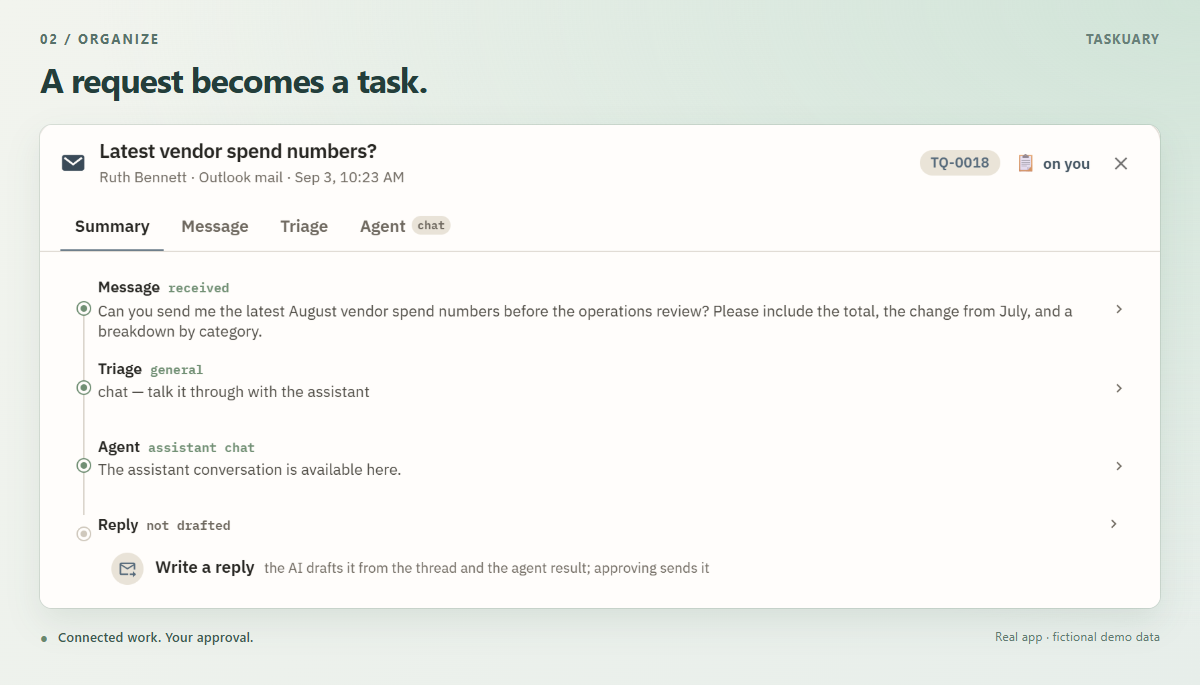
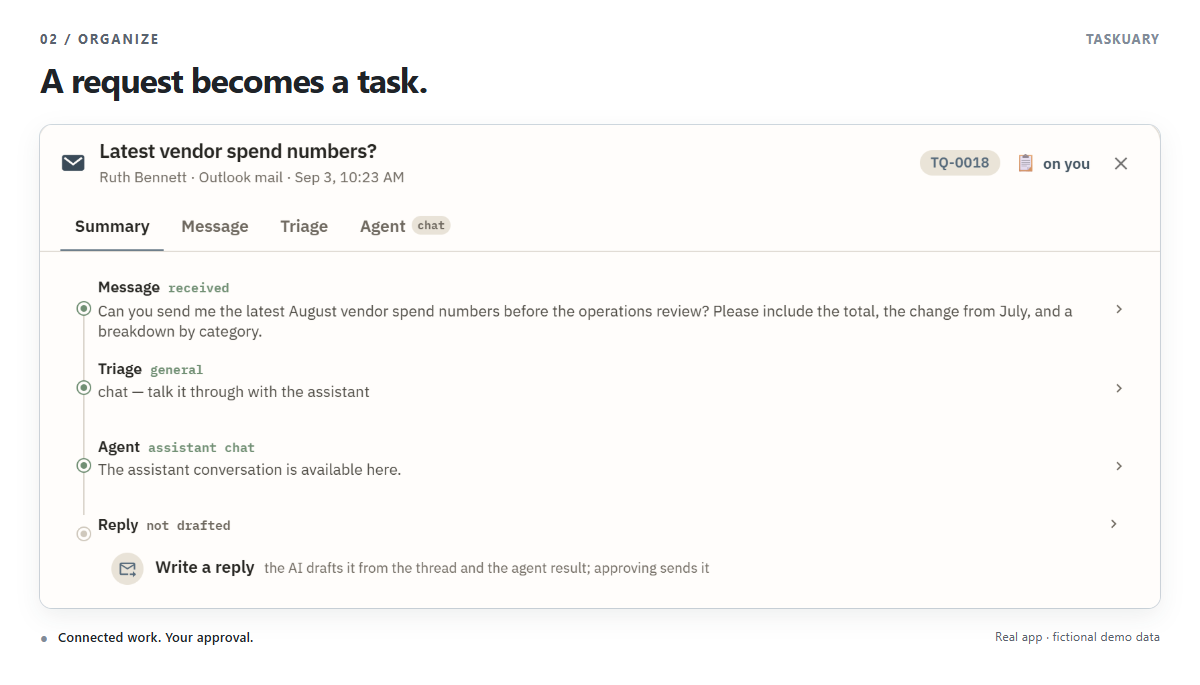
The README hero moves smoothly, and every picture shows whole cards on a plain white page
- The hero's camera lurched: frames were taken whenever a screenshot finished, played
  back at a fixed rate, and ffmpeg's concat snapped those rates to a 25 fps grid besides
  (50 ms frames came out 40/80/40/80). The capture now owns the scene's clock -
  performance.now and requestAnimationFrame advance one frame per screenshot - so every
  flight frame is exactly 50 ms apart. Smooth flights cost 20 MB as a GIF, so the hero is
  now docs/hero.webp (5.8 MB); docs/hero.gif is left as it was.
- The frame around each picture was a green-tinted gradient. It is plain white with
  grey type, so the only colour is the app's own.
- Hand-set clips cut cards off at the edges (the CLI and Hub cards, the agent's result,
  the reply, the opening card). capture-readme's card() now crops to the card itself: the
  smallest box holding given words, the window grown until none of it scrolls away, the
  chat's other cards hidden. The key-feature pictures are re-shot from the current app
  (Connections, Hub and Docs open inside the chat now; the Board's handoff wall had lost
  its sample notes).

Changed region(s): [[0.0308, 0.0, 1.0, 0.9504], [0.0617, 0.9197, 0.2158, 0.9504]]

diff --git a/README.md b/README.md
@@ -17,7 +17,7 @@
 
 Compared with hosted assistants like Fyxer, Taskuary is free and open source, runs on your machine, and hands the work to agents you already use.
 
-![The Assistant's Game view: an office where every task, message and agent is a figure, opening on the whole floor and zooming into each room - the Agent Floor, the Meeting Room where people wait on you, the Gym, the Coffee Room, the Memory Archive, and the Assistant Core.](https://raw.githubusercontent.com/ldbumble/taskuary/master/docs/hero.gif?v=game)
+![The Assistant's Game view: an office where every task, message and agent is a figure, opening on the whole floor and zooming into each room - the Agent Floor, the Meeting Room where people wait on you, the Gym, the Coffee Room, the Memory Archive, and the Assistant Core.](https://raw.githubusercontent.com/ldbumble/taskuary/master/docs/hero.webp?v=smooth)
 
 Taskuary is early—currently **v0.3.7.15**—so breaking changes are still possible before 1.0.
 
@@ -43,7 +43,7 @@ Mail, chats, issue trackers, alerts, and reports arrive on one rail, sorted by w
 one card: what changed since last night, what was learned, the morning digest, your meetings, and
 what waits in each section - so you never open each system in turn.
 
-![The work rail sorting today's items into Urgent, On you, Agents working, Reports, Advisor ideas, and FYI, beside the opening card: agents that finished and a report that ran since last night, the memory and morning digest lines, today's meetings, and what waits in each section.](https://raw.githubusercontent.com/ldbumble/taskuary/master/docs/readme/01-timeline-sources-and-times.png?v=opening-card)
+![The work rail sorting today's items into Urgent, On you, Agents working, Reports, Advisor ideas, and FYI, beside the opening card: agents that finished and a report that ran since last night, the memory and morning digest lines, today's meetings, and what waits in each section.](https://raw.githubusercontent.com/ldbumble/taskuary/master/docs/readme/01-timeline-sources-and-times.png?v=cards)
 
 ### 2. Let the Assistant walk you through it
 
@@ -52,28 +52,28 @@ same task card you would open yourself, with the next actions under it: **Next**
 **Send to agent**, **Mark done**. The buttons always do the same thing; the chat line is for everything else,
 and the Assistant already has the message, the thread, and your past decisions to answer from.
 
-![The Assistant bringing Ruth's request into the chat as task TQ-0018 - what needs doing, its agent and close-out steps - with Next, Write reply, Send to agent, and Mark done under it.](https://raw.githubusercontent.com/ldbumble/taskuary/master/docs/readme/05-assistant.png?v=opening-card)
+![The Assistant bringing Ruth's request into the chat as task TQ-0018 - what needs doing, its agent and close-out steps - with Next, Write reply, Send to agent, and Mark done under it.](https://raw.githubusercontent.com/ldbumble/taskuary/master/docs/readme/05-assistant.png?v=cards)
 
 ### 3. Every request becomes a task with its whole story
 
 Open any item to see how it got here: the message, what triage decided and why, which agent
 has it, and where the reply stands.
 
-![Ruth's request on its task: the message, the triage decision, the agent, and the reply still to write.](https://raw.githubusercontent.com/ldbumble/taskuary/master/docs/readme/02-task.png?v=opening-card)
+![Ruth's request on its task: the message, the triage decision, the agent, and the reply still to write.](https://raw.githubusercontent.com/ldbumble/taskuary/master/docs/readme/02-task.png?v=cards)
 
 ### 4. The agent works inside the chat
 
 **Send to agent** and it works in the same card. Here the analyst prepares the numbers, checks
 that the categories add up, names its source, and drafts the reply. Nothing is sent.
 
-![The analyst's finished vendor spend analysis inside the chat, with category totals, the change from July, and its source.](https://raw.githubusercontent.com/ldbumble/taskuary/master/docs/readme/03-agent.png?v=opening-card)
+![The analyst's finished vendor spend analysis inside the chat, with category totals, the change from July, and its source.](https://raw.githubusercontent.com/ldbumble/taskuary/master/docs/readme/03-agent.png?v=cards)
 
 ### 5. The last word is yours
 
 The prepared reply waits on the task, beside the request that started it. Read it, edit it,
 and choose **Approve & send** when it is ready.
 
-![The drafted reply to Ruth waiting on its task, with Approve & send, Mark done, and Regenerate with AI.](https://raw.githubusercontent.com/ldbumble/taskuary/master/docs/readme/04-review.png?v=opening-card)
+![The drafted reply to Ruth waiting on its task, with Approve & send, Mark done, and Regenerate with AI.](https://raw.githubusercontent.com/ldbumble/taskuary/master/docs/readme/04-review.png?v=cards)
 
 ### 6. Start your day before it gets busy
 
@@ -81,7 +81,7 @@ Each morning the Assistant opens on what changed since last night, what it learn
 and what waits in each section - and the morning digest unfolds in place, so it is never stale by the
 time you reach it. Ruth's request has a clear deadline: the 11:30 operations review.
 
-![An animated close-up of the morning: the opening card, then its morning digest unfolding - who wants what, what is in flight, and today's meetings.](https://raw.githubusercontent.com/ldbumble/taskuary/master/docs/readme/06-morning.gif?v=opening-card)
+![An animated close-up of the morning: the opening card, then its morning digest unfolding - who wants what, what is in flight, and today's meetings.](https://raw.githubusercontent.com/ldbumble/taskuary/master/docs/readme/06-morning.gif?v=cards)
 
 ## Key features
 
@@ -95,21 +95,21 @@ For Qwen Code, see the [setup and compatibility guide](docs/qwen-code.md).
 Use DeepSeek, GLM, or MiniMax through OpenCode, or connect Moonshot's Kimi Code:
 [setup steps and supported roles](docs/chinese-coding-clis.md).
 
-![AI CLI connections for Claude, Qwen, OpenCode with DeepSeek, and Kimi Code.](https://raw.githubusercontent.com/ldbumble/taskuary/master/docs/readme/07-coding-clis-chinese.png)
+![AI CLI connections for Claude, Qwen, OpenCode with DeepSeek, and Kimi Code.](https://raw.githubusercontent.com/ldbumble/taskuary/master/docs/readme/07-coding-clis-chinese.png?v=cards)
 
 ### A shared Hub for what agents learn
 
 Keep discoveries, decisions, and useful warnings by topic. Agents can find what earlier work
 uncovered, discuss it, and correct it instead of starting from scratch.
 
-![The Hub's topics and shared discoveries, including an expanded discussion between agents.](https://raw.githubusercontent.com/ldbumble/taskuary/master/docs/readme/08-hub.png)
+![A discovery in the Hub, with the discussion two agents had under it.](https://raw.githubusercontent.com/ldbumble/taskuary/master/docs/readme/08-hub.png?v=cards)
 
 ### Agents leave notes for each other
 
 The Board's **Live handoffs** show what agents are working on, what is blocked, and what is ready.
 An agent leaves a note; the next one reads it before picking up the work.
 
-![Live handoff notes on the agent wall, showing progress, shared context, and who has read each note.](https://raw.githubusercontent.com/ldbumble/taskuary/master/docs/readme/09-handoffs.png)
+![Live handoff notes on the agent wall, showing progress, shared context, and who has read each note.](https://raw.githubusercontent.com/ldbumble/taskuary/master/docs/readme/09-handoffs.png?v=cards)
 
 ### Memory that learns how you work
 
@@ -121,7 +121,7 @@ it to lead with the total next time.
 Open **Docs → LEARNED.md** to read, edit, or delete those lessons. Your written instructions
 in `SOUL.md` take precedence.
 
-![LEARNED.md open in the document editor, with evidence-backed preferences, hypotheses still being tested, and proposed rules awaiting the owner.](https://raw.githubusercontent.com/ldbumble/taskuary/master/docs/readme/11-learned-memory.png)
+![LEARNED.md open in the document editor, with evidence-backed preferences, hypotheses still being tested, and proposed rules awaiting the owner.](https://raw.githubusercontent.com/ldbumble/taskuary/master/docs/readme/11-learned-memory.png?v=cards)
 
 <details>
 <summary>Technical details: how LEARNED.md becomes memory</summary>

diff --git a/README.zh-CN.md b/README.zh-CN.md
@@ -16,7 +16,7 @@
 
 与 Fyxer 等托管助手相比，Taskuary 免费开源，在你的电脑上运行，并把工作交给你已经在用的智能体。
 
-![助手的游戏视图：每个任务、消息和智能体都是办公室里的一个人物，先展示整层办公室，再依次放大到各个房间。](https://raw.githubusercontent.com/ldbumble/taskuary/master/docs/hero.gif?v=game)
+![助手的游戏视图：每个任务、消息和智能体都是办公室里的一个人物，先展示整层办公室，再依次放大到各个房间。](https://raw.githubusercontent.com/ldbumble/taskuary/master/docs/hero.webp?v=smooth)
 
 Taskuary 仍处于早期阶段，目前为 **v0.3.7.15**，1.0 之前可能出现不兼容变更。
 应用界面和演示截图目前以英文为主；下文保留英文按钮名称，方便对照操作。
@@ -46,7 +46,7 @@ Qwen Code 使用哪个云端或本地模型，由你配置。见[使用 Qwen Cod
 **Urgent**、**On you**、**For later**、Advisor 的建议，以及 **FYI**。旁边是一天的开场卡片：昨晚以来的变化、
 学到的东西、早间摘要、今天的会议，以及每个分组里在等你的事，不用逐个打开各个系统。
 
-![工作栏把今天的事项分组，旁边是开场卡片：昨晚以来完成的代理和运行的报表、记忆与早间摘要、今天的会议，以及每个分组里在等你的事。](https://raw.githubusercontent.com/ldbumble/taskuary/master/docs/readme/01-timeline-sources-and-times.png?v=opening-card)
+![工作栏把今天的事项分组，旁边是开场卡片：昨晚以来完成的代理和运行的报表、记忆与早间摘要、今天的会议，以及每个分组里在等你的事。](https://raw.githubusercontent.com/ldbumble/taskuary/master/docs/readme/01-timeline-sources-and-times.png?v=cards)
 
 ### 2. 让助手带你逐项处理
 
@@ -54,33 +54,33 @@ Qwen Code 使用哪个云端或本地模型，由你配置。见[使用 Qwen Cod
 下面是接下来的操作：**Next**、**Write reply**、**Send to agent**、**Mark done**。按钮每次都做同样的事；
 其他需求直接在对话框里说，助手已经掌握这条消息、整个线程以及你过去的决定。
 
-![助手把 Ruth 的请求作为任务 TQ-0018 带入对话，显示要做的事、智能体和收尾步骤，下面是 Next、Write reply、Send to agent 和 Mark done。](https://raw.githubusercontent.com/ldbumble/taskuary/master/docs/readme/05-assistant.png?v=opening-card)
+![助手把 Ruth 的请求作为任务 TQ-0018 带入对话，显示要做的事、智能体和收尾步骤，下面是 Next、Write reply、Send to agent 和 Mark done。](https://raw.githubusercontent.com/ldbumble/taskuary/master/docs/readme/05-assistant.png?v=cards)
 
 ### 3. 每个请求都成为带有完整经过的任务
 
 打开任何事项，都能看到它的来龙去脉：原始消息、分诊的结论和原因、由哪个智能体处理，以及回复进行到哪一步。
 
-![Ruth 的请求对应的任务：原始消息、分诊结论、智能体，以及尚未撰写的回复。](https://raw.githubusercontent.com/ldbumble/taskuary/master/docs/readme/02-task.png?v=opening-card)
+![Ruth 的请求对应的任务：原始消息、分诊结论、智能体，以及尚未撰写的回复。](https://raw.githubusercontent.com/ldbumble/taskuary/master/docs/readme/02-task.png?v=cards)
 
 ### 4. 智能体在对话里工作
 
 点击 **Send to agent**，智能体就在同一张卡片里工作。这里的分析智能体整理支出数据、核对分类合计、
 注明数据来源，并准备回复草稿。任何内容都不会自动发出。
 
-![分析智能体在对话中完成的供应商支出分析，包括分类合计、与七月的变化和数据来源。](https://raw.githubusercontent.com/ldbumble/taskuary/master/docs/readme/03-agent.png?v=opening-card)
+![分析智能体在对话中完成的供应商支出分析，包括分类合计、与七月的变化和数据来源。](https://raw.githubusercontent.com/ldbumble/taskuary/master/docs/readme/03-agent.png?v=cards)
 
 ### 5. 最后由你决定
 
 准备好的回复放在任务上，旁边就是最初的请求。阅读、修改，确认无误后点击 **Approve & send**。
 
-![给 Ruth 的回复草稿在任务上等待审核，并提供 Approve & send、Mark done 和 Regenerate with AI。](https://raw.githubusercontent.com/ldbumble/taskuary/master/docs/readme/04-review.png?v=opening-card)
+![给 Ruth 的回复草稿在任务上等待审核，并提供 Approve & send、Mark done 和 Regenerate with AI。](https://raw.githubusercontent.com/ldbumble/taskuary/master/docs/readme/04-review.png?v=cards)
 
 ### 6. 在忙起来之前开始一天
 
 每天早上，助手先说明昨晚以来的变化、学到的东西、今天的会议，以及每个分组里在等你的事；早间摘要直接在卡片里展开，
 看到时不会过时。Ruth 的请求有明确的期限：11:30 的运营会议。
 
-![早间画面的动画特写：开场卡片，以及在卡片里展开的早间摘要。](https://raw.githubusercontent.com/ldbumble/taskuary/master/docs/readme/06-morning.gif?v=opening-card)
+![早间画面的动画特写：开场卡片，以及在卡片里展开的早间摘要。](https://raw.githubusercontent.com/ldbumble/taskuary/master/docs/readme/06-morning.gif?v=cards)
 
 ## 核心功能
 
@@ -95,21 +95,21 @@ Qwen Code 使用哪个云端或本地模型，由你配置。见[使用 Qwen Cod
 这两个预设用于执行任务；消息分拣和只读报告请选择 Qwen Code、Ollama 或 API 服务。
 详见[安装步骤和验证范围（英文）](docs/chinese-coding-clis.md)。
 
-![Claude、Qwen、OpenCode（支持 DeepSeek）和 Kimi Code 的连接卡片。](https://raw.githubusercontent.com/ldbumble/taskuary/master/docs/readme/07-coding-clis-chinese.png)
+![Claude、Qwen、OpenCode（支持 DeepSeek）和 Kimi Code 的连接卡片。](https://raw.githubusercontent.com/ldbumble/taskuary/master/docs/readme/07-coding-clis-chinese.png?v=cards)
 
 ### 用 Hub 保留共享知识
 
 按主题保存发现、决定和有用的提醒。智能体可以查阅前面的工作、补充讨论，
 也可以根据新证据纠正结论，减少重复摸索。
 
-![Hub 中按主题组织的共享发现，以及智能体之间的讨论。](https://raw.githubusercontent.com/ldbumble/taskuary/master/docs/readme/08-hub.png)
+![Hub 中按主题组织的共享发现，以及智能体之间的讨论。](https://raw.githubusercontent.com/ldbumble/taskuary/master/docs/readme/08-hub.png?v=cards)
 
 ### 智能体之间可以交接留言
 
 Board 的 **Live handoffs** 展示当前进展、阻碍和待接手事项。
 一个智能体留下说明，下一个接手时就能读到上下文；已读标记显示谁看过这条留言。
 
-![智能体的交接留言，包括进展、共享上下文和已读标记。](https://raw.githubusercontent.com/ldbumble/taskuary/master/docs/readme/09-handoffs.png)
+![智能体的交接留言，包括进展、共享上下文和已读标记。](https://raw.githubusercontent.com/ldbumble/taskuary/master/docs/readme/09-handoffs.png?v=cards)
 
 ### 从你的决定中学习
 
@@ -120,7 +120,7 @@ Board 的 **Live handoffs** 展示当前进展、阻碍和待接手事项。
 打开 **Docs → LEARNED.md**，可以阅读、修改或删除这些记忆。
 你在 `SOUL.md` 中写下的指令始终优先。
 
-![LEARNED.md 编辑器中可查看和修改的偏好、证据、待验证假设和待批准规则。](https://raw.githubusercontent.com/ldbumble/taskuary/master/docs/readme/11-learned-memory.png)
+![LEARNED.md 编辑器中可查看和修改的偏好、证据、待验证假设和待批准规则。](https://raw.githubusercontent.com/ldbumble/taskuary/master/docs/readme/11-learned-memory.png?v=cards)
 
 <details>
 <summary>技术细节：LEARNED.md 如何形成记忆</summary>

diff --git a/docs/readme/README.md b/docs/readme/README.md
@@ -1,8 +1,10 @@
 # README walkthrough images
 
 The README and product guide share these images. The hero is kept separately at
-`docs/hero.gif`: the Assistant's Game view, opening on the whole office and zooming into each room.
-Regenerate it with `npm exec --yes --package=node@22 -- node website/capture-hero.mjs` (FFmpeg as below). These images follow one invented
+`docs/hero.webp`: the Assistant's Game view, opening on the whole office and zooming into each room.
+Regenerate it with `npm exec --yes --package=node@22 -- node website/capture-hero.mjs` (FFmpeg as below). It is an
+animated WebP because smooth camera flights cost 20 MB as a GIF; the capture steps the scene's clock one frame per
+screenshot, so every frame is exactly 50 ms apart. `--encode` re-encodes the last frames without a browser. These images follow one invented
 vendor-spend request through the current React interface, then show a few key
 features. The calendar GIF replays the app's meeting entrance and clock pulse.
 `06-morning.png` is its static alternative. The privacy SVG is an illustrated flow.
@@ -23,8 +25,10 @@ Timeline response format, CLI cards, and Hub comments. No live account is read,
 connected, or changed. The fixture clock is September 3, 2026, at 10:24 local time.
 
 Raw screenshots and animation frames stay in ignored `.codex-tmp/readme/`.
-Framing and crops live in `website/render-readme.mjs`; screenshots are captured at
-double resolution and framed at 1200 pixels wide. The capture widens the Timeline
+Framing lives in `website/render-readme.mjs`: a plain white page with neutral grey type, so the only colour is the
+app's own. Most pictures are cropped to a whole card by `card()` in the capture (the smallest box holding given words,
+the window grown until none of it is scrolled away, the rest of the chat hidden), so no frame cuts a card's edge;
+the rest keep a clip in the shot list. Screenshots are captured at double resolution and framed at 1200 pixels wide. The capture widens the Timeline
 rail, narrows the Review column, and expands its reply editor for readability.
 Product source files and the deployed demo are unchanged.
 
@@ -36,6 +40,7 @@ The LEARNED.md image uses authored example lessons in the real document editor.
 To recapture and frame just those two images, add `--memory-update` to both commands.
 For just the Timeline image, use `--timeline-only` instead.
 For just the CLI connections image (including Qwen Code), use `--cli-only`.
+For the four key-feature images (CLI, Hub, handoffs, LEARNED.md), capture with `--extras-only` (all of them: `--extras`).
 For just the first image (the opening card in the full demo, on a fresh chat), use `--home-only` with both commands.
 
 Review every final image at README width after regenerating: titles, amounts,

diff --git a/.claude/skills/deploy/SKILL.md b/.claude/skills/deploy/SKILL.md
@@ -78,7 +78,7 @@ neither: shields caches per-URL, so without bumping it the README shows the prev
 to an hour.
 
 Leave the `?v=0.3.3.2` suffixes on **screenshot** URLs alone unless the picture actually changed —
-and never re-shoot `docs/hero.gif` for a UI change (it is the agents-at-work animation on purpose).
+and never re-shoot `docs/hero.webp` for a UI change (it is the agents-at-work animation on purpose).
 
 ## 3. Rebuild the committed UI
 
